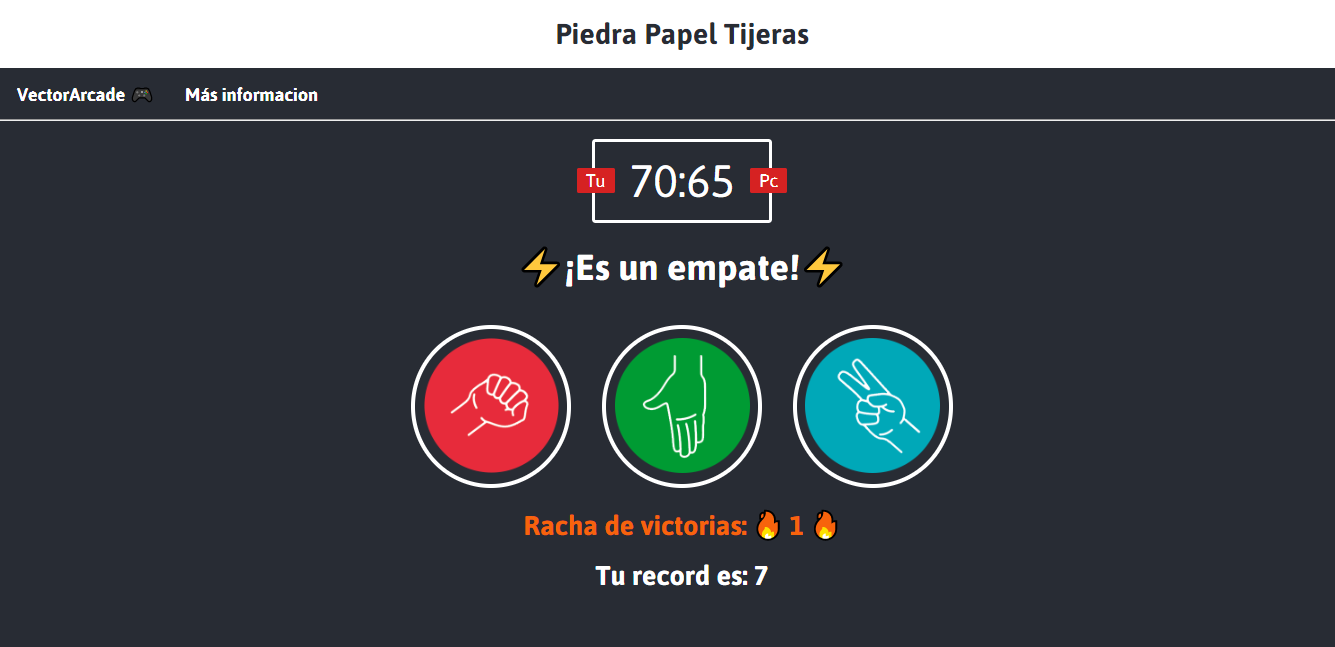
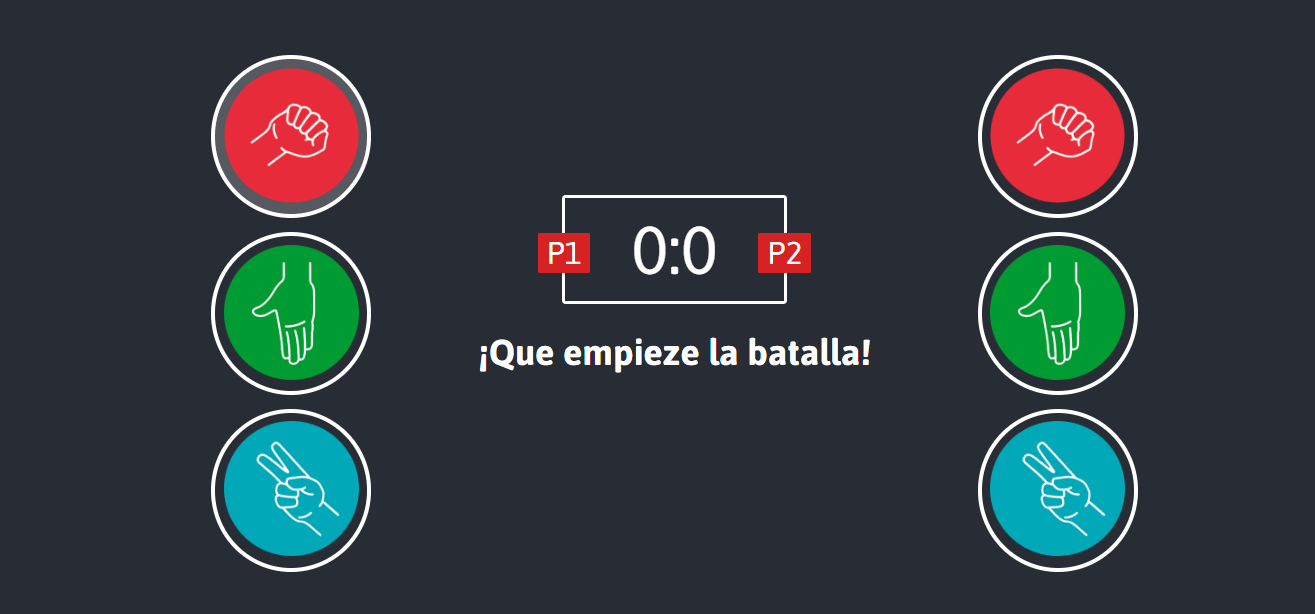
Add files via upload

diff --git a/Juegos/Piedra papel tijeras VAGM jvj/app.js b/Juegos/Piedra papel tijeras VAGM jvj/app.js
@@ -1,0 +1,126 @@
+let puntosP1 = 0;
+let puntosP2 = 0;
+let loop = 0;
+let loopmain = 0;
+let loopturno = 1;
+const p1Puntos_span = document.getElementById("puntos-P1");
+const p2Puntos_span = document.getElementById("puntos-P2");
+const tablaPuntos_div = document.querySelector(".tabla-puntos");
+const resultado_div = document.querySelector(".resultado > p");
+const r1_div = document.getElementById("r1");
+const p1_div = document.getElementById("p1");
+const t1_div = document.getElementById("t1");
+const r2_div = document.getElementById("r2");
+const p2_div = document.getElementById("p2");
+const t2_div = document.getElementById("t2");
+var op1 = "";
+var op2 = "";
+
+function traductor(letra){
+  if (letra === "r"){
+    return "Piedra";
+  }else if (letra === "p") {
+    return "Papel";
+  }else if (letra === "t") {
+    return "Tijeras";
+  }
+}
+function P1wins(r1,r2) {
+  puntosP1 ++;
+  p1Puntos_span.innerHTML = puntosP1;
+  p2Puntos_span.innerHTML = puntosP2;
+  resultado_div.innerHTML = traductor(r1) + " gana a " + traductor(r2) + ". ¡P1 gana! 🏆";
+}
+function P2wins(r1,r2) {
+  puntosP2 ++;
+  p1Puntos_span.innerHTML = puntosP1;
+  p2Puntos_span.innerHTML = puntosP2;
+  resultado_div.innerHTML = traductor(r2) + " gana a " + traductor(r1) + ". ¡P2 gana! 🏆";
+}
+function draw(r1,r2) {
+  resultado_div.innerHTML = "⚡ " + traductor(r1) + " es igual que " + traductor(r2) + " ⚡";
+}
+function game(opcionP1,opcionP2) {
+  switch (opcionP1 + opcionP2) {
+    case "rt":
+    case "pr":
+    case "tp":
+      P1wins(opcionP1,opcionP2);
+      break;
+    case "rr":
+    case "tt":
+    case "pp":
+      draw(opcionP1,opcionP2);
+      break;
+    case "pt":
+    case "tr":
+    case "rp":
+      P2wins(opcionP1,opcionP2);
+      break;
+  }
+  loopmain = 0;
+  loopturno = 1;
+}
+
+function turno(){
+  if (loopturno===0){
+    r2_div.addEventListener('click', function() {
+      if (loopturno===0){
+        op2 = "r";
+        loopturno++;
+        game(op1,op2);
+      }
+    })
+
+    p2_div.addEventListener('click', function() {
+      if (loopturno===0){
+        op2 = "p";
+        loopturno++;
+        game(op1,op2);
+      }
+    })
+
+    t2_div.addEventListener('click', function() {
+      if (loopturno===0){
+        op2 = "t";
+        loopturno++;
+        game(op1,op2);
+      }
+    })
+  }
+}
+
+function main() {
+  if (loopmain===0){
+    r1_div.addEventListener('click', function() {
+      if (loopmain===0){
+        op1 = "r";
+        loopmain++;
+        loopturno = 0;
+        turno();
+      }
+    })
+
+    p1_div.addEventListener('click', function() {
+      if (loopmain===0){
+        op1 = "p";
+        loopmain++;
+        loopturno = 0;
+        turno();
+      }
+    })
+
+    t1_div.addEventListener('click', function() {
+      if (loopmain===0){
+        op1 = "t";
+        loopmain++;
+        loopturno = 0;
+        turno();
+      }
+    })
+  }
+}
+if(loop===0){
+  main();
+  loop++;
+}

diff --git a/Juegos/Piedra papel tijeras VAGM jvj/index.html b/Juegos/Piedra papel tijeras VAGM jvj/index.html
@@ -1,0 +1,58 @@
+<!DOCTYPE html>
+<html lang="en">
+  <head>
+    <meta charset="utf-8">
+    <title>Piedra Papel Tijeras JvJ</title>
+    <link rel="stylesheet" href="styles.css">
+    <link rel="shortcut icon" href="imagenes/favicon.ico" type="image/x-icon">
+  </head>
+  <body>
+    <a href=index.html><header>
+      <h1>Piedra Papel Tijeras JvJ</h1>
+    </header></a>
+    <div class="menu">
+      <a href="https://vectorarcadegc.github.io/vectorarcadegc/home"><div class="opcionMenu" id="VectorArcade">
+        VectorArcade 🎮
+      </div></a>
+      <a href="about.html"><div class="opcionMenu" id="about">
+        Más informacion
+      </div></a>
+    </div>
+    <hr>
+    <div class="opciones">
+      <div class="column">
+        <div class="opcion" id="r1">
+          <img src="imagenes/piedra.png" width="150px" height="150px" alt="">
+        </div>
+        <div class="opcion" id="p1">
+          <img src="imagenes/papel.png" width="150px" height="150px" alt="">
+        </div>
+        <div class="opcion" id="t1">
+          <img src="imagenes/tijera.png" width="150px" height="150px" alt="">
+        </div>
+      </div>
+      <div class="column" id="tablita">
+        <div class="tabla-puntos">
+          <div id="boton-P1" class="boton-index">P1</div>
+          <div id="boton-P2" class="boton-index">P2</div>
+          <span id="puntos-P1">0</span>:<span id="puntos-P2">0</span>
+        </div>
+        <div class="resultado">
+          <p>¡Que empieze la batalla!</p>
+        </div>
+      </div>
+      <div class="column">
+        <div class="opcion" id="r2">
+          <img src="imagenes/piedra.png" width="150px" height="150px" alt="">
+        </div>
+        <div class="opcion" id="p2">
+          <img src="imagenes/papel.png" width="150px" height="150px" alt="">
+        </div>
+        <div class="opcion" id="t2">
+          <img src="imagenes/tijera.png" width="150px" height="150px" alt="">
+        </div>
+      </div>
+    </div>
+    <script src="app.js"></script>
+  </body>
+</html>

diff --git a/Juegos/Piedra papel tijeras VAGM jvj/about.html b/Juegos/Piedra papel tijeras VAGM jvj/about.html
@@ -2,13 +2,13 @@
 <html lang="en">
   <head>
     <meta charset="utf-8">
-    <title>Piedra Papel Tijeras</title>
+    <title>Piedra Papel Tijeras JvJ</title>
     <link rel="stylesheet" href="stylesAbout.css">
     <link rel="shortcut icon" href="imagenes/favicon.ico" type="image/x-icon">
   </head>
   <body>
     <a href=index.html><header>
-      <h1>Piedra Papel Tijeras</h1>
+      <h1>Piedra Papel Tijeras JvJ</h1>
     </header></a>
     <div class="menu">
       <a href="https://vectorarcadegc.github.io/vectorarcadegc/home"><div class="opcionMenu" id="VectorArcade">
@@ -20,7 +20,7 @@
     </div>
     <hr>
     <div class="info">
-      <a href="">Link para acceder a el modo JvJ</a>
+      <a href="">Link para acceder a el modo clasico</a>
       <p>Piedra, papel o tijera es un juego de manos en el que existen tres elementos:</p>
       <uo>
         <li>Piedra (el puño) <img src="imagenes/piedra.png" width="25px" height="25px"></li>
@@ -28,6 +28,9 @@
         <li>Tijeras(los dos dedos) <img src="imagenes/tijera.png" width="25px" height="25px"></li>
       </uo>
       <p id="infop">Esto crea un circulo en el que uno gana al otro, siendo asi, piedra rompe tijeras, papel cubre piedra y tijeras cortan papel.</p>
-      <p id="circulo"><img src="imagenes/circulo.png"></p>
+      <p id="circulo"><img src="imagenes/circulo.png" width=25%></p><br><br>
+      <h4>Instrucciones para jugador contra jugador:</h4><br>
+      <p>En la parte izquierda esta las opciones del jugador 1, para empezar el juego el J1 elige 1 de las 3 opciones disponibles.</p>
+      <p>A continuacion el jugador 2 (P2) escoje su opcion del panel de la derecha, cuando estos dos pasos esten completados el resultado de la ronda se vera escrito en el medio de la pantalla.</p>
   </body>
 </html>

diff --git a/Juegos/Piedra papel tijeras VAGM jvj/styles.css b/Juegos/Piedra papel tijeras VAGM jvj/styles.css
@@ -1,0 +1,99 @@
+@import url('https://fonts.googleapis.com/css?family=Asap:400,500,700&display=swap');
+*{
+  margin: 0;
+  padding: 0;
+  box-sizing: border-box;
+  font-family: Asap, sans-serif;
+  color: white;
+}
+header{
+  background: white;
+  padding: 20px;
+}
+body{
+  background-color: #282C34;
+}
+header > h1{
+  color: #282C34;
+  text-align: center;
+  font-family: Asap, sans-serif;
+}
+
+
+.tabla-puntos{
+  margin: 20px auto;
+  border: 3px solid white;
+  width: 250px;
+  color: white;
+  font-size: 75px;
+  border-radius: 4px;
+  text-align: center;
+  padding: 15px 20px;
+  font-family: Asap, sans-serif;
+  position: relative;
+  transition: all 0.3s ease;
+}
+.boton-index{
+  background-color: #d62222;
+  font-size: 35px;
+  padding: 2px 10px;
+
+}
+#boton-P1{
+  position: absolute;
+  top: 40px;
+  left: -30px;
+  border-radius: 2px;
+}
+#boton-P2{
+  position: absolute;
+  top: 40px;
+  right: -30px;
+  border-radius: 2px;
+}
+.resultado{
+  font-size: 40px;
+  color: white;
+  text-align: center;
+  font-weight: bold;
+  transition: all 0.3s ease;
+  margin-top: 30px;
+}
+.opcionMenu{
+  margin: 10px 10px;
+  display: inline-block;
+  padding: 5px;
+  font-weight: bold;
+  font-size: 20px;
+}
+#VectorArcade{
+  margin-left: 15px;
+}
+.opcionMenu:hover{
+  cursor: pointer;
+  color: #6fa5fc;
+}
+.opciones{
+  text-align: center;
+  margin-bottom: 20px;
+}
+.opcion{
+  padding: 10px;
+  margin: 15px 15px;
+  border-radius: 50%;
+  border: 4px solid white;
+  transition: all 0.3s ease;
+}
+.opcion:hover{
+  cursor: pointer;
+  background-color: white;
+}
+.column{
+  min-width: 300px;
+  display: inline-block;
+  vertical-align: top;
+  padding: 50px;
+}
+#tablita{
+  margin-top: 150px;
+}

diff --git a/juegos.html b/juegos.html
@@ -22,9 +22,11 @@
           Piedra papel tijeras
         </div>
         <div class="post">
-          <p>El clasico juego de piedra papel tijeras pero esta vez luchando contra una ia. Consta con sistema de racha y de record. Estilizado para tener un aire mas ergonomico.</p>
-          <p><a href="Juegos\Piedra papel tijeras VAGM\index.html"><i><h4>Link de juego<h4><i></a></p>
-          <p align="center"><img src="imagenes/pptDemo.png" width="40%"></p>
+          <p>El clasico juego de piedra papel tijeras pero esta vez luchando contra una ia. Consta con sistema de racha y de record. Estilizado para tener un aire mas ergonomico.</p><br>
+          <p>Con la nueva actualizacion se puede jugar en el modo de jugador contra jugador.</p>
+          <p><a href="Juegos\Piedra papel tijeras VAGM\index.html"><i><h4>Link de juego clasico<h4><i></a></p>
+          <p><a href="Juegos\Piedra papel tijeras VAGM jvj\index.html"><i><h4>Link de juego JvJ<h4><i></a></p>
+          <p align="center"><img src="imagenes/pptDemo.png" width="31%"> <img src="imagenes/pptDemo2.png" width="30%"></p>
         </div>
       </div>
     </div>

diff --git a/home.html b/home.html
@@ -29,11 +29,11 @@
       <br><br>
       <div class="post-container">
         <div class="post-titulo">
-          ¡Nuevo Juego! Piedra papel Tijeras vs BOT
+          ¡Juego actualizado! Piedra papel Tijeras JvJ
         </div>
         <div class="post">
-          <p>El primer juego del VECTOR ARCADE GAME CENTER esta terminado. Este consiste en el juego clasico de piedra papel o tijeras donde luchas contra el ordenador y esta completamente en español.</p>
-          <p><a href="Juegos\Piedra papel tijeras VAGM\index.html">Link rapido para poder jugar --> </a></p><br>
+          <p>El juego de Piedra Papel Tijeras esta actualizado, ahora se puede escojer el modo de jugador contra jugador. Dirijase al apartado de juegos para mas detalles.</p>
+          <p><a href="Juegos\Piedra papel tijeras VAGM jvj\index.html" id="linkNoticias">Link rapido para poder jugar --> </a></p><br>
           <p align="center"><img src="imagenes/pptDemo.png" width="40%"></p>
         </div>
       </div>

diff --git a/Juegos/Piedra papel tijeras VAGM jvj/stylesAbout.css b/Juegos/Piedra papel tijeras VAGM jvj/stylesAbout.css
@@ -54,6 +54,9 @@ li{
   text-align: center;
 
 }
+h4{
+  font-size: 25px;
+}
 a{
   text-decoration: none;
   color: white;

diff --git a/styles.css b/styles.css
@@ -112,3 +112,6 @@ a:hover{
 #submit{
   background-color: white;
 }
+#linkNoticias{
+  font-weight: bold;
+}
